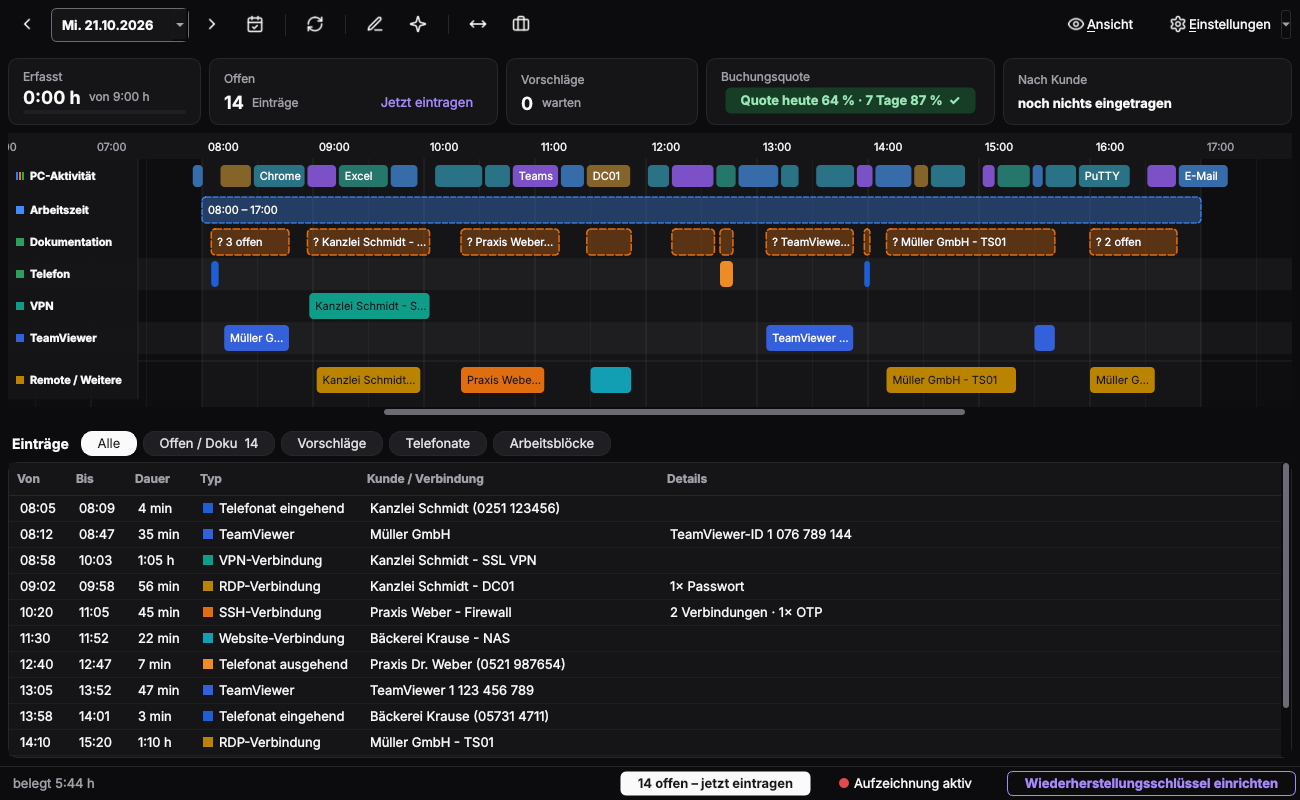
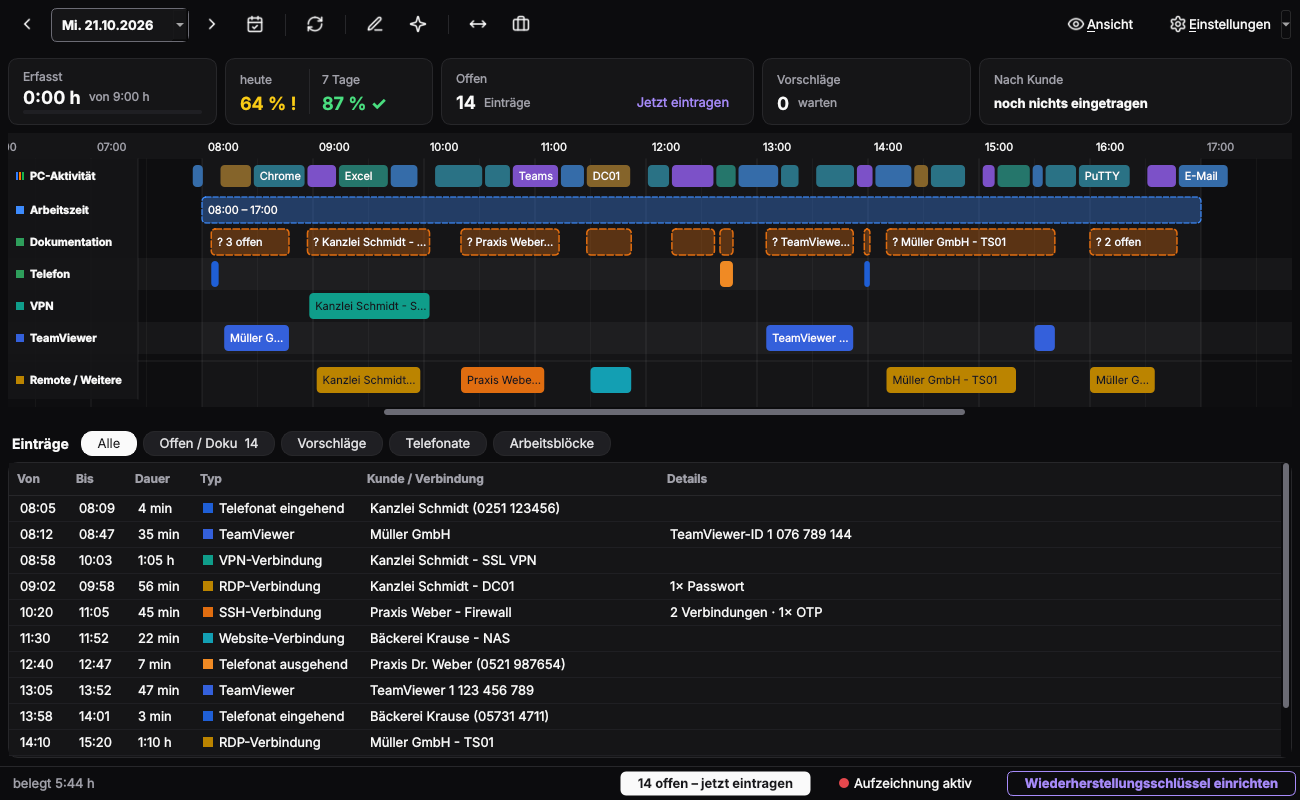
Buchungsquote: Kachel hinter Erfasst, heute | 7 Tage als große farbige Zahl
Die Kachel zeigt nur noch die Prozentwerte, groß wie „Erfasst“ und in der Farbe der
Stufe (mit Zeichen ✗ ! ✓). Eigene, kräftige Farben für Hell (Gelb war auf Weiß kaum
zu sehen), Kontrast im UI-Test geprüft. Die ganze Kachel öffnet den Wochenabschluss.

Claude-Session: https://claude.ai/code/session_01U2KC5jsb73gNqKhF2nezM8

Changed region(s): [[0.4923, 0.0938, 0.8923, 0.1562], [0.1538, 0.0938, 0.4615, 0.1562]]

diff --git a/src/day_summary.py b/src/day_summary.py
@@ -108,6 +108,83 @@ class _Kpi(QFrame):
         self.layout().addWidget(self.bar)
 
 
+class RateKpi(QFrame):
+    """Kachel Buchungsquote:   heute | 7 Tage
+                              64 % ! | 87 % ✓   (Zahl in der Farbe der Stufe, groß wie Erfasst)
+
+    Anklickbar (Maus, Enter, Leertaste) wie ein Knopf: Signal clicked."""
+
+    clicked = Signal()
+    SYMBOLS = {"low": "✗", "mid": "!", "ok": "✓", "over": "✓✓", "none": ""}
+
+    def __init__(self, parent=None):
+        super().__init__(parent)
+        self.setObjectName("card")
+        self.setCursor(Qt.PointingHandCursor)
+        self.setFocusPolicy(Qt.StrongFocus)
+        self.level = "none"
+        self._text = ""
+        layout = QVBoxLayout(self)
+        layout.setContentsMargins(14, 10, 14, 10)
+        layout.setSpacing(2)
+        row = QHBoxLayout()
+        row.setSpacing(0)
+        self.columns = {}
+        for i, key in enumerate(("today", "seven")):
+            if i:
+                line = QFrame(self)
+                line.setObjectName("divider")
+                line.setFixedWidth(1)
+                row.addSpacing(12)
+                row.addWidget(line)
+                row.addSpacing(12)
+            col = QVBoxLayout()
+            col.setSpacing(2)
+            head = QLabel("heute" if key == "today" else "7 Tage", self)
+            head.setObjectName("kpi_label")
+            value = QLabel("–", self)
+            value.setObjectName("rate_value_none")
+            col.addWidget(head)
+            col.addWidget(value)
+            row.addLayout(col)
+            self.columns[key] = (head, value)
+        row.addStretch(1)
+        layout.addLayout(row)
+
+    def show_rate(self, info):
+        """info: week_dialogs.rate_info (label, today, today_level, seven, seven_level, text, tip)."""
+        self._text = info["text"]
+        self.level = info["level"]
+        for key in ("today", "seven"):
+            head, value = self.columns[key]
+            percent, lvl = info[key], info[f"{key}_level"]
+            if key == "today":
+                head.setText(info["label"])
+            value.setText(f"{int(round(percent))} % {self.SYMBOLS[lvl]}".strip() if percent is not None else "–")
+            name = f"rate_value_{lvl}"
+            if value.objectName() != name:
+                value.setObjectName(name)
+                value.style().unpolish(value)
+                value.style().polish(value)
+        self.setToolTip(info["tip"])
+        self.setAccessibleName(f"Buchungsquote: {info['text']}. Wochenabschluss öffnen")
+
+    def text(self):
+        """Ganzer Text, z. B. „Quote heute 64 % · 7 Tage 87 %  ✓“ (Hinweis, Tests)."""
+        return self._text
+
+    def mouseReleaseEvent(self, event):
+        if event.button() == Qt.LeftButton and self.rect().contains(event.position().toPoint()):
+            self.clicked.emit()
+        super().mouseReleaseEvent(event)
+
+    def keyPressEvent(self, event):
+        if event.key() in (Qt.Key_Return, Qt.Key_Enter, Qt.Key_Space):
+            self.clicked.emit()
+            return
+        super().keyPressEvent(event)
+
+
 class DaySummary(QWidget):
     """Kennzahlen-Leiste über der Timeline."""
 
@@ -130,27 +207,16 @@ class DaySummary(QWidget):
         self.customers = _Kpi("Nach Kunde", self)
         self.customers.value.setObjectName("card_title")
         self.customers.value.setTextFormat(Qt.PlainText)
-        # Buchungsquote (Matrix42 ÷ Personalzeit): Knopf kommt aus dem Hauptfenster (attach_rate),
-        # week_dialogs.update_rate_button füllt ihn und blendet die Kachel ein oder aus
-        self.rate = _Kpi("Buchungsquote", self)
-        self.rate.value.hide()
-        self.rate.extra.hide()
+        # Buchungsquote (Matrix42 ÷ Personalzeit): week_dialogs.update_rate_button füllt die
+        # Kachel und blendet sie ohne Matrix42 aus; Klick öffnet den Wochenabschluss
+        self.rate = RateKpi(self)
         self.rate.hide()
-        for w, stretch in ((self.booked, 2), (self.opened, 3), (self.suggest, 2), (self.rate, 3),
+        for w, stretch in ((self.booked, 2), (self.rate, 2), (self.opened, 3), (self.suggest, 2),
                            (self.customers, 3)):
             # alle gleich hoch; in schmalen Fenstern dürfen die Karten schrumpfen (Reflow)
             w.setSizePolicy(QSizePolicy.Ignored, QSizePolicy.Preferred)
             layout.addWidget(w, stretch)
         self.setSizePolicy(QSizePolicy.Preferred, QSizePolicy.Fixed)
-
-    def attach_rate(self, button):
-        """Knopf „Quote heute 64 % · 7 Tage 87 % ✓“ in die Kachel Buchungsquote setzen."""
-        button.setParent(self.rate)
-        button.setCursor(Qt.PointingHandCursor)
-        self.rate.layout().itemAt(1).layout().insertWidget(0, button)
-
-    def show_rate(self, visible):
-        self.rate.setVisible(visible)
 
     def show_numbers(self, data):
         booked, target = data["booked_s"], data["target_s"]

diff --git a/src/week_dialogs.py b/src/week_dialogs.py
@@ -106,7 +106,14 @@ def selected_day(window, now):
 
 
 def status_text(window, now=None, day=None):
-    """(Text, Stufe, Hinweis) für die Statuszeile oder None, wenn Matrix42 nichts liefert.
+    """(Text, Stufe, Hinweis) für die Quote oder None, wenn Matrix42 nichts liefert."""
+    info = rate_info(window, now, day)
+    return None if info is None else (info["text"], info["level"], info["tip"])
+
+
+def rate_info(window, now=None, day=None):
+    """Quote für die Kachel Buchungsquote oder None, wenn Matrix42 nichts liefert:
+    {label ("heute"/"20.10."), today, today_level, seven, seven_level, level, text, tip}.
 
     Gilt für den gewählten Tag: Quote des Tages und 7 Tage bis zu diesem Tag."""
     now = now or datetime.now()
@@ -136,36 +143,25 @@ def status_text(window, now=None, day=None):
     if seven.unread:
         tip.append(f"{len(seven.unread)} Tag(e) ohne Matrix42-Daten zählen nicht mit")
     tip.append("Klick: Wochenabschluss")
-    return text, lvl, "\n".join(tip)
+    return {"label": label, "today": today.percent, "today_level": br.level(today.percent, goal),
+            "seven": seven.percent, "seven_level": br.level(seven.percent, goal),
+            "level": lvl, "text": text, "tip": "\n".join(tip)}
 
 
 def update_rate_button(window):
-    """Knopf "Quote heute … · 7 Tage …" in der Statuszeile setzen oder ausblenden."""
-    button = getattr(window, "rate_button", None)
-    if button is None:
+    """Kachel Buchungsquote (heute | 7 Tage) setzen oder ausblenden."""
+    tile = getattr(window, "rate_button", None)
+    if tile is None:
         return
     info = None
     if window.config.get("booking_rate_status", True) and has_m42(window):
         try:
-            info = status_text(window)
+            info = rate_info(window)
         except (KeyError, TypeError, ValueError):
             info = None
-    button.setVisible(info is not None)
-    summary = getattr(window, "day_summary", None)
-    if summary is not None:  # Kachel „Buchungsquote“ oben (day_summary.py)
-        summary.show_rate(info is not None)
-    if info is None:
-        return
-    text, lvl, tip = info
-    button.setText(text)
-    button.setToolTip(tip)
-    button.setAccessibleName(f"Buchungsquote: {text.rsplit('  ', 1)[0]}, "
-                             f"{br.LEVELS[lvl][1]}. Wochenabschluss öffnen")
-    name = f"rate_{lvl}" if lvl != "none" else ""
-    if button.objectName() != name:
-        button.setObjectName(name)
-        button.style().unpolish(button)
-        button.style().polish(button)
+    tile.setVisible(info is not None)
+    if info is not None:
+        tile.show_rate(info)
 
 
 # ------------------------------------------------------------------ Dialog

diff --git a/src/theme.py b/src/theme.py
@@ -106,6 +106,8 @@ THEMES = {
         # Buchungsquote (booking_rate.py): Fläche und Schrift je Stufe
         "rate_low": "#4A1C1F", "rate_low_text": "#FFB4B6", "rate_mid": "#463708", "rate_mid_text": "#FFE08A",
         "rate_ok": "#173D27", "rate_ok_text": "#9BE8B8", "rate_over": "#0E6B34", "rate_over_text": "#FFFFFF",
+        # Kachel Buchungsquote: farbige Zahl direkt auf der Karte
+        "rate_value_low": "#FF8A8E", "rate_value_mid": "#FACC15", "rate_value_ok": "#4ADE80",
     },
     "light": {
         "bg": "#F7F7F8", "surface": "#FFFFFF", "bar": "#FFFFFF",
@@ -119,6 +121,8 @@ THEMES = {
         # Buchungsquote (booking_rate.py): Fläche und Schrift je Stufe
         "rate_low": "#FCE4E4", "rate_low_text": "#9F1D20", "rate_mid": "#FFF1BF", "rate_mid_text": "#6B4E00",
         "rate_ok": "#DDF3E4", "rate_ok_text": "#1E6B3A", "rate_over": "#0F5E2E", "rate_over_text": "#FFFFFF",
+        # Kachel Buchungsquote: farbige Zahl direkt auf der Karte (große Schrift 20 px fett: mind. 3 : 1)
+        "rate_value_low": "#DC2626", "rate_value_mid": "#D97706", "rate_value_ok": "#16A34A",
     },
 }
 
@@ -232,6 +236,15 @@ QToolButton#rate_low, QLabel#rate_low { background-color: $rate_low; color: $rat
 QToolButton#rate_mid, QLabel#rate_mid { background-color: $rate_mid; color: $rate_mid_text; font-weight: bold; }
 QToolButton#rate_ok, QLabel#rate_ok { background-color: $rate_ok; color: $rate_ok_text; font-weight: bold; }
 QToolButton#rate_over, QLabel#rate_over { background-color: $rate_over; color: $rate_over_text; font-weight: bold; }
+/* Kachel Buchungsquote: Zahl groß in der Farbe der Stufe (Text-Farbe der Stufe) */
+QLabel#rate_value_low, QLabel#rate_value_mid, QLabel#rate_value_ok, QLabel#rate_value_over,
+QLabel#rate_value_none { background: transparent; font-size: 20px; font-weight: bold; }
+QLabel#rate_value_low { color: $rate_value_low; }
+QLabel#rate_value_mid { color: $rate_value_mid; }
+QLabel#rate_value_ok, QLabel#rate_value_over { color: $rate_value_ok; }
+QLabel#rate_value_none { color: $muted; }
+QFrame#divider { background-color: $border; border: none; }
+QFrame#card:focus { border: 2px solid $accent; }
 QToolButton#rate_low, QToolButton#rate_mid, QToolButton#rate_ok, QToolButton#rate_over {
     border-radius: 6px; padding: 3px 10px; }
 QPushButton:disabled, QToolButton:disabled, QLineEdit:disabled, QDateEdit:disabled,

diff --git a/src/main_timeline.py b/src/main_timeline.py
@@ -591,11 +591,9 @@ class TimelineApp(MenusMixin, DayListMixin, DayCloseMixin, DocsMixin, ReadersMix
             self.statusBar().addPermanentWidget(button)
             self.source_buttons[kind] = button
         # Buchungsquote (Matrix42 ÷ Personalzeit), ein Klick öffnet den Wochenabschluss
-        self.rate_button = QToolButton(self)
-        self.rate_button.setToolButtonStyle(Qt.ToolButtonTextOnly)
+        # (Kachel oben in der Kennzahlen-Leiste, day_summary.RateKpi)
+        self.rate_button = self.day_summary.rate
         self.rate_button.clicked.connect(self.show_week)
-        self.rate_button.hide()
-        self.day_summary.attach_rate(self.rate_button)  # als Kachel oben in der Kennzahlen-Leiste
         # Wichtigste Aufgabe sichtbar machen: offene Tätigkeiten, ein Klick trägt die erste ein
         self.open_docs_button = QToolButton(self)
         self.open_docs_button.setObjectName("cta")

diff --git a/tests/ui_audit_test.py b/tests/ui_audit_test.py
@@ -176,6 +176,8 @@ for theme_name, t in main_timeline.THEMES.items():
     check_contrast(area, t["accent"], t["bg"])  # umrandeter Knopf in der Statuszeile (cta_secondary)
     for lvl in ("low", "mid", "ok", "over"):  # Buchungsquote (Statuszeile, Wochenabschluss)
         check_contrast(area, t[f"rate_{lvl}_text"], t[f"rate_{lvl}"])
+    for lvl in ("low", "mid", "ok"):  # Kachel Buchungsquote: farbige Zahl auf der Karte
+        check_contrast(area, t[f"rate_value_{lvl}"], t["surface"], minimum=3.0)  # 20 px fett = groß
     # Bedienelemente (WCAG 1.4.11): Rahmen von Feldern/Knöpfen und Scrollbalken mind. 3 : 1
     for token in ("control", "handle"):
         for ground in ("bg", "surface"):

diff --git a/tests/week_gui_test.py b/tests/week_gui_test.py
@@ -153,7 +153,7 @@ personal.clear()
 m42.clear()
 personal.update(saved[0])
 m42.update(saved[1])
-assert button.objectName() == "rate_low" and "Wochenabschluss" in button.accessibleName()
+assert button.level == "low" and "Wochenabschluss" in button.accessibleName()
 window.m42_reader = None
 saved_imported, window.imported = window.imported, None
 window.update_status_text()

diff --git a/README.md b/README.md
@@ -65,7 +65,7 @@ Gedacht ist Zeitzeuge für IT-Dienstleister und Admins, die ihre Zeiten nachträ
   - **Teams-Chats** (eigene Datenquelle, standardmäßig aus): Exchange legt Teams-Nachrichten auch im Postfach ab. Zeitzeuge liest daraus über Outlook nur Uhrzeit und die Domains der Gesprächspartner, keine Texte und keine Namen, und zeigt Blöcke „Chat mit kunde.de“.
   - Gespeichert werden nur Betreff, Zeit, Ort und die **Domains** der Teilnehmer oder Empfänger (z. B. „kunde.de“). Keine Adressen, keine Mailtexte. Alles liegt verschlüsselt in der Datenbank und bleibt auch ohne Outlook sichtbar.
   - Regeln ohne KI kennen die neuen Einträge (Teams-Anruf → Telefonsupport, Termin → Beratung / Abstimmung, Mail → E-Mail / Kommunikation). Die KI bekommt Termine und Mails als eigenen Abschnitt.
-- **Buchungsquote:** Zeitzeuge rechnet aus, wie viel deiner Personalzeit in Matrix42 gebucht ist. Ziel sind 80 % pro Tag. Unter 50 % ist die Quote rot (✗), bis unter dem Ziel gelb (!), ab dem Ziel bis 100 % grün (✓), darüber dunkelgrün (✓✓). Die Kachel **Buchungsquote** oben über der Timeline zeigt „Quote heute 72 % · 7 Tage 81 %“. Ein Klick öffnet den Wochenabschluss. Die Anzeige erscheint nur, wenn Matrix42 Daten liefert.
+- **Buchungsquote:** Zeitzeuge rechnet aus, wie viel deiner Personalzeit in Matrix42 gebucht ist. Ziel sind 80 % pro Tag. Unter 50 % ist die Quote rot (✗), bis unter dem Ziel gelb (!), ab dem Ziel bis 100 % grün (✓), darüber dunkelgrün (✓✓). Die Kachel **Buchungsquote** oben über der Timeline (gleich hinter „Erfasst“) zeigt „heute | 7 Tage“ mit großen Prozentzahlen in der Farbe der Stufe, z. B. „72 % ! | 81 % ✓“. Ein Klick öffnet den Wochenabschluss. Die Anzeige erscheint nur, wenn Matrix42 Daten liefert.
 - **7-Tage-Wert:** die letzten 7 gestempelten Tage bis heute. Heute zählt nur, wenn du gestempelt hast, und nur bis jetzt. Tage ohne Matrix42-Daten zählen nicht mit. Sie stehen als „Matrix42 nicht gelesen“ da, statt als 0 %.
 - **Wochenabschluss** (Menü **Ansicht → Wochenabschluss …** oder Klick auf die Kachel Buchungsquote): Montag bis Freitag der Woche, Samstag und Sonntag nur, wenn du da gestempelt oder gebucht hast. Je Tag: Personalzeit, gebucht, Quote, Zeit ohne Buchung und offene Tätigkeiten. Darunter Hinweise wie „Dienstag: 1:20 h nicht gebucht“ und der 7-Tage-Wert. Mit ◀ ▶ (oder Bild auf/ab) blätterst du die Wochen. Enter oder Doppelklick zeigt den Tag im Hauptfenster. Das Ziel stellst du dort unter „Ziel je Tag“ ein.
 - **Prüfung bei Feierabend:** Bist du ausgestempelt und ist Feierabend, prüft Zeitzeuge den Tag einmal: mehr als 6 Stunden ohne 30 Minuten Pause (über 9 Stunden: 45 Minuten, Pausen zählen ab 15 Minuten am Stück), mehr als 6 Stunden am Stück, PC aktiv aber ausgestempelt, Buchung außerhalb der Personalzeit, Buchungen überschneiden sich, Quote unter Ziel. Die Hinweise kommen mit der Erinnerung an offene Tätigkeiten oder allein, und stehen auch im Wochenabschluss. Abschalten: Einstellungen → Nachfragen und Erinnerungen → „Bei Feierabend prüfen“.

diff --git a/CHANGELOG.md b/CHANGELOG.md
@@ -19,7 +19,7 @@ Testversionen aus Branches tragen die Version ihres main-Stands plus Buildnummer
 
 ### Neu
 - **Neues Design „Companion“** (übernommen aus dem Entwurf „Zeiterfassung Companion“): ruhige Zink-Grautöne in Hell und Dunkel, runde Ecken an Feldern, Knöpfen, Menüs und Timeline-Balken, Karten mit feinem Rand, Hauptknopf in Textfarbe, Violett für Fokus und Links.
-- **Kennzahlen über der Timeline:** Erfasst (von Soll, mit Balken), Offen („Jetzt eintragen“), Vorschläge („Ansehen“), Buchungsquote (bisher in der Statuszeile, Klick öffnet den Wochenabschluss) und Nach Kunde. Über der Tagesliste Chips für die Ansichten Alle, Offen / Doku, Vorschläge, Telefonate und Arbeitsblöcke.
+- **Kennzahlen über der Timeline:** Erfasst (von Soll, mit Balken), Offen („Jetzt eintragen“), Vorschläge („Ansehen“), Buchungsquote gleich hinter Erfasst (heute | 7 Tage als große Zahl in der Farbe der Stufe, bisher in der Statuszeile; Klick öffnet den Wochenabschluss) und Nach Kunde. Über der Tagesliste Chips für die Ansichten Alle, Offen / Doku, Vorschläge, Telefonate und Arbeitsblöcke.
 - **Kunden & Erkennung:** neues Fenster mit Kundenliste links (Suche, Kürzel, Merkmale, Stunden der letzten 7 Tage) und Merkmalen als Chips rechts, je Art mit Trefferzahl. Neue Merkmale: **Ordner und Dateipfade**, **Rechnernamen und Hosts** (auch `*.kunde.local`), **IP-Adressen und -Bereiche** (CIDR). Dazu Kundennummer und der Schalter „Kalendertermine“. Domains aus dem Browser-Verlauf zählen wie Mail-Domains.
 - **Zeitraum nachtragen:** Beim Ziehen in der Timeline zeigt das Fenster, was Rechner, Kalender, Anrufe und Verbindungen in dieser Zeit sagen, mit −10/−1/+1/+10 für Beginn und Ende. Ein Termin oder Anruf, der den Zeitraum überwiegend füllt, wird als Kunde und Text vorgeschlagen.
 - **Leerlauf-Nachfrage:** „Du warst 42 Min. nicht am Rechner (10:15–10:57). Was hast du gemacht?“ mit Chips zur Schnellauswahl.
